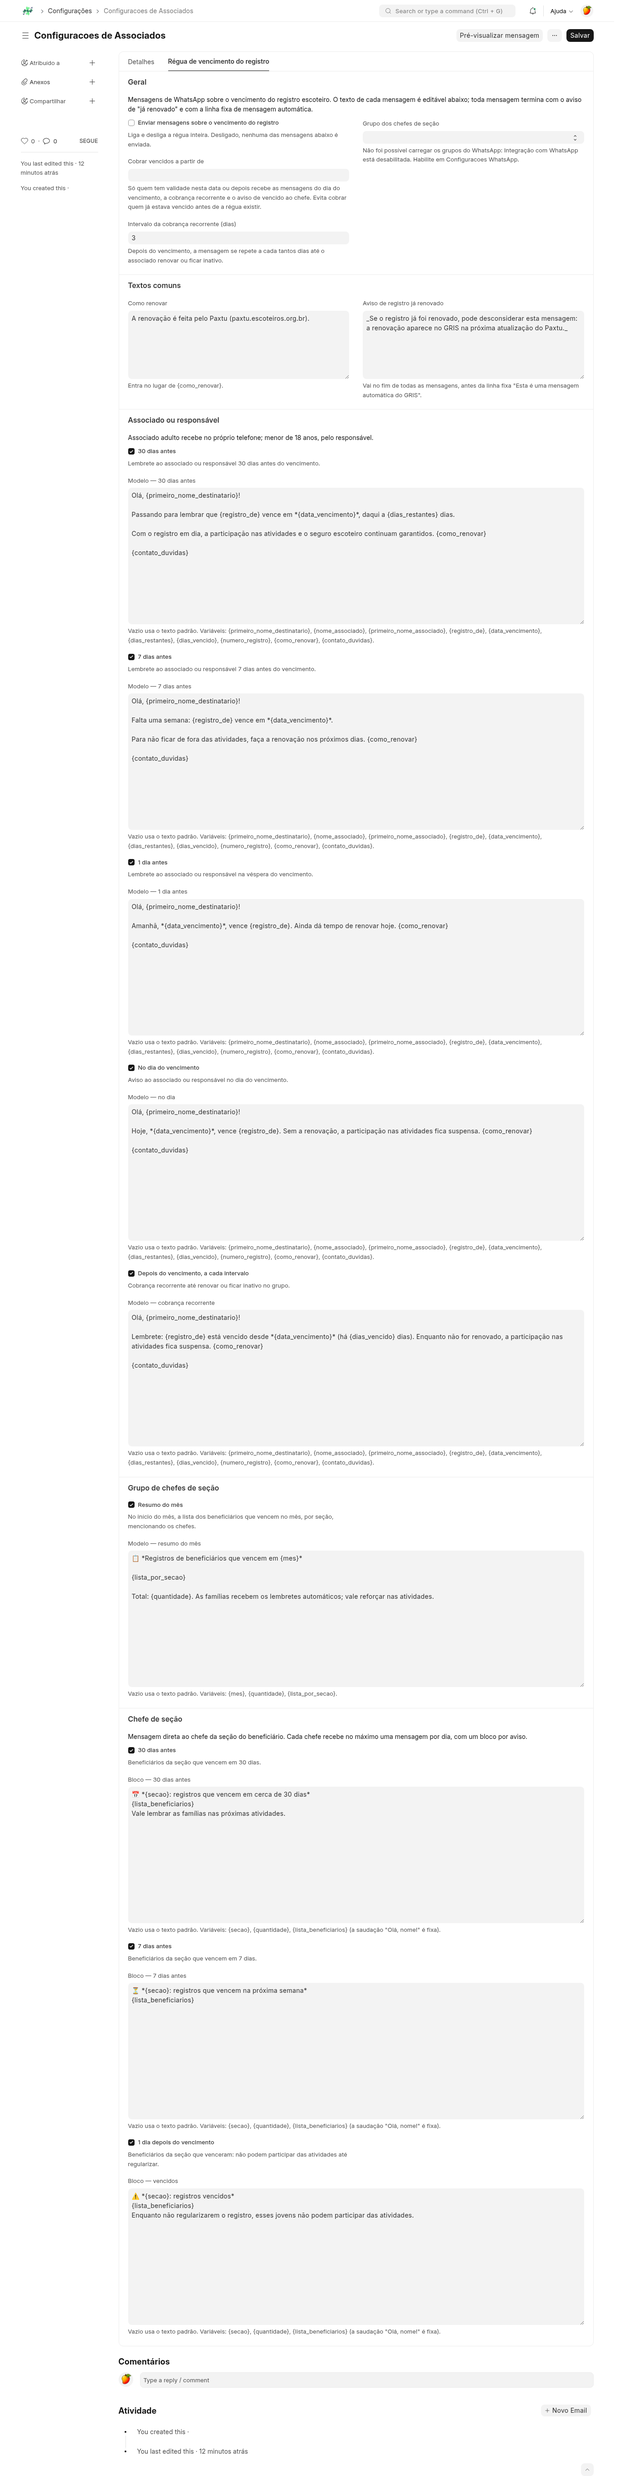
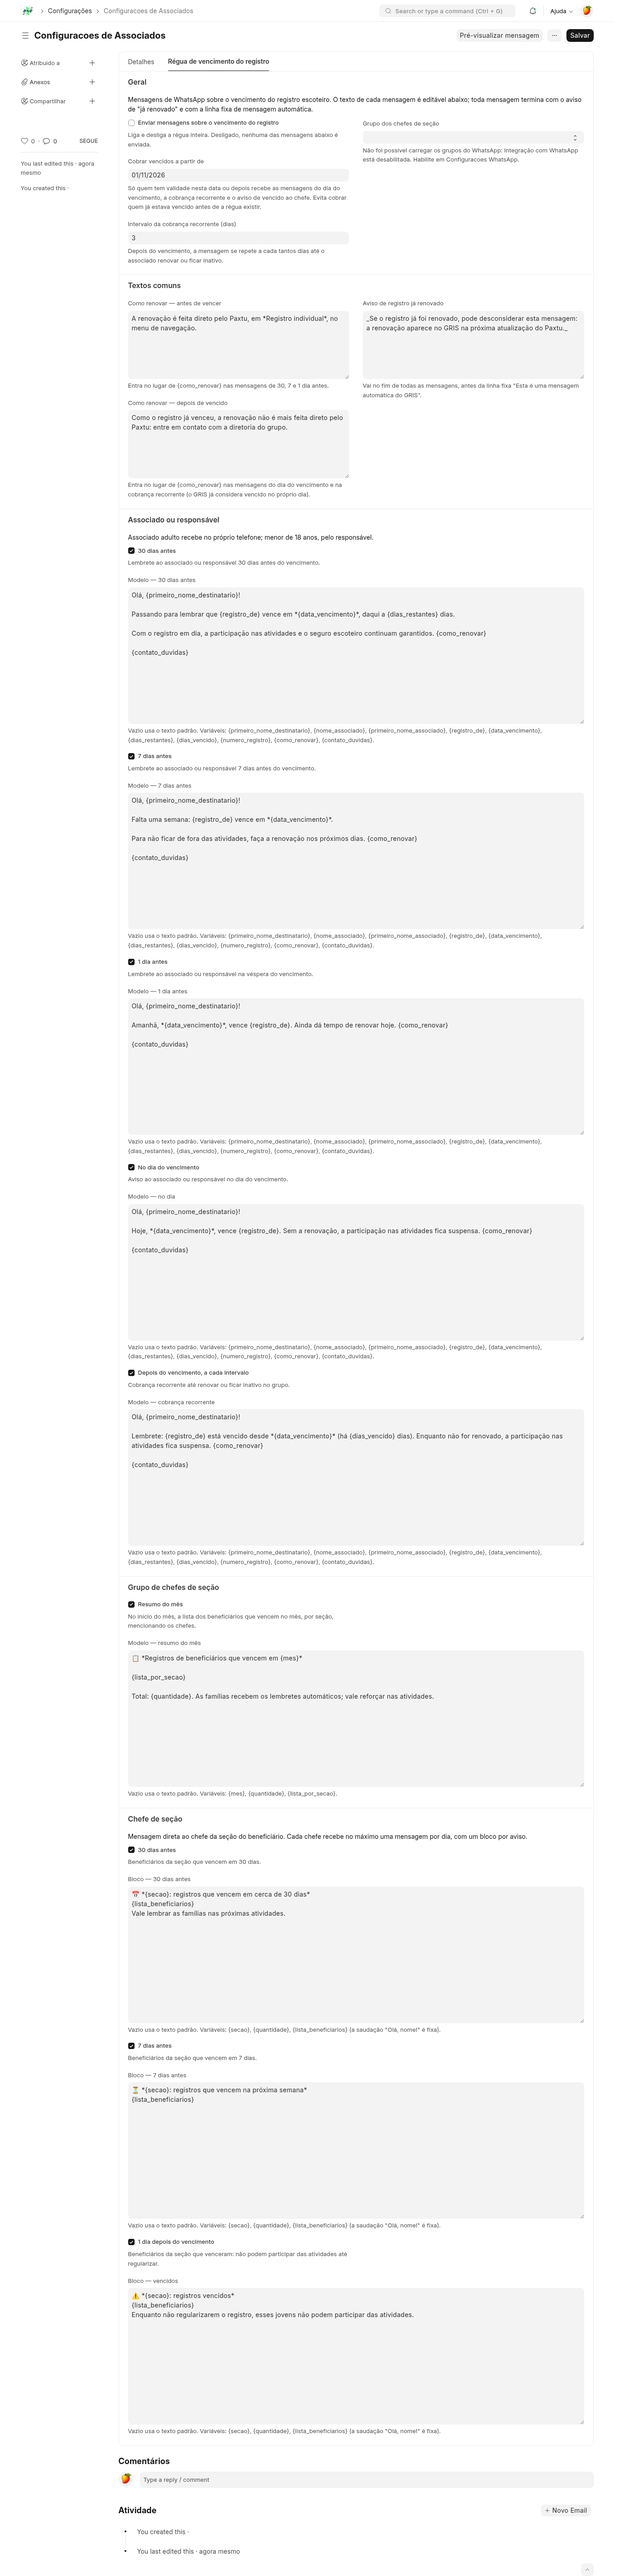
Régua de vencimento: corte em 01/11/2026 e como renovar por situação
- Patch grava a data de corte 01/11/2026 quando vazia (decisão do
  usuário); a data continua editável na tela.
- {como_renovar} passa a ter dois textos: antes de vencer, direto pelo
  Paxtu em Registro individual; no dia e depois de vencido, contato com
  a diretoria (mesma regra do status do registro).
- Patch roda de novo (idempotente) e troca o texto antigo se intocado.

diff --git a/gris/patches/preparar_regua_de_vencimento.py b/gris/patches/preparar_regua_de_vencimento.py
@@ -3,11 +3,19 @@ import frappe
 from gris.api.associados_vencimento_modelos import (
 	CAMPOS_DE_INTERRUPTOR,
 	INSTRUCOES_RENOVACAO_PADRAO,
+	INSTRUCOES_RENOVACAO_VENCIDO_PADRAO,
 	MODELOS_PADRAO,
 	SETTINGS_DOCTYPE,
 	TEXTO_JA_RENOVADO_PADRAO,
 	valor_bruto,
 )
+
+# Data de corte decidida com o usuário (20/11/2026): quem venceu a partir de 01/11/2026 entra na
+# cobrança recorrente e no aviso de vencido ao chefe. Só é gravada se o campo estiver vazio.
+CORTE_INICIAL = "2026-11-01"
+
+# Texto padrão da primeira versão do patch, trocado quando ninguém o editou.
+INSTRUCOES_RENOVACAO_ANTIGA = "A renovação é feita pelo Paxtu (paxtu.escoteiros.org.br)."
 
 
 def execute():
@@ -17,8 +25,8 @@ def execute():
 	abriria com os modelos em branco e os interruptores desmarcados, enquanto o código trata
 	ausência como "ligado" e "texto padrão": a tela diria uma coisa e o robô faria outra.
 
-	Só preenche o que falta. O interruptor geral e a data de corte não são tocados: a régua
-	nasce desligada e quem liga escolhe o corte.
+	Só preenche o que falta. A data de corte nasce em 01/11/2026 (decisão do usuário) e pode ser
+	trocada na tela; o interruptor geral não é tocado: a régua nasce desligada.
 	"""
 	if not frappe.db.exists("DocType", SETTINGS_DOCTYPE):
 		return
@@ -32,8 +40,13 @@ def execute():
 			valores[campo] = texto
 	if not (valor_bruto("texto_ja_renovado") or "").strip():
 		valores["texto_ja_renovado"] = TEXTO_JA_RENOVADO_PADRAO
-	if not (valor_bruto("instrucoes_renovacao") or "").strip():
+	instrucoes = (valor_bruto("instrucoes_renovacao") or "").strip()
+	if not instrucoes or instrucoes == INSTRUCOES_RENOVACAO_ANTIGA:
 		valores["instrucoes_renovacao"] = INSTRUCOES_RENOVACAO_PADRAO
+	if not (valor_bruto("instrucoes_renovacao_vencido") or "").strip():
+		valores["instrucoes_renovacao_vencido"] = INSTRUCOES_RENOVACAO_VENCIDO_PADRAO
+	if not valor_bruto("cobrar_vencidos_desde"):
+		valores["cobrar_vencidos_desde"] = CORTE_INICIAL
 	if valor_bruto("intervalo_recorrente_dias") is None:
 		valores["intervalo_recorrente_dias"] = 3
 

diff --git a/gris/api/associados_vencimento_notificacoes.py b/gris/api/associados_vencimento_notificacoes.py
@@ -382,6 +382,15 @@ def contato_duvidas() -> str:
 	)
 
 
+def _textos_comuns() -> dict[str, str]:
+	"""Lidos uma vez por rodada: valem para todas as mensagens ao associado."""
+	return {
+		"como_renovar": instrucoes_renovacao(),
+		"como_renovar_vencido": instrucoes_renovacao(vencido=True),
+		"contato_duvidas": contato_duvidas(),
+	}
+
+
 def valores_do_associado(associado, destinatario, *, dias: int, comum: dict) -> dict[str, object]:
 	nome_associado = (associado.get("nome_completo") or "").strip()
 	primeiro_nome_associado = _primeiro_nome(nome_associado)
@@ -400,7 +409,8 @@ def valores_do_associado(associado, destinatario, *, dias: int, comum: dict) -> 
 		"dias_restantes": max(dias, 0),
 		"dias_vencido": max(-dias, 0),
 		"numero_registro": (associado.get("registro") or "").strip(),
-		"como_renovar": comum.get("como_renovar", ""),
+		# Mesma regra do status do registro (``Associado._set_status``): no dia já conta como vencido.
+		"como_renovar": comum.get("como_renovar_vencido" if dias <= 0 else "como_renovar", ""),
 		"contato_duvidas": comum.get("contato_duvidas", ""),
 	}
 
@@ -624,7 +634,7 @@ def _avisar_associados(associados, estados, hoje, corte, intervalo, logger) -> d
 	nomes = [a.name for a, _marco, _dias in devidos]
 	links = _buscar_links_responsavel(nomes)
 	contatos = _buscar_contatos_responsavel(links)
-	comum = {"como_renovar": instrucoes_renovacao(), "contato_duvidas": contato_duvidas()}
+	comum = _textos_comuns()
 
 	for associado, marco, dias in devidos:
 		destinatario = resolver_destinatario(associado, links, contatos, hoje)
@@ -845,7 +855,7 @@ def notificar_vencimento_manual(associado_name: str) -> dict:
 		frappe.throw(_("Não foi possível encontrar um número de telefone elegível para o aviso."))
 
 	marco = marco_natural(dias)
-	comum = {"como_renovar": instrucoes_renovacao(), "contato_duvidas": contato_duvidas()}
+	comum = _textos_comuns()
 	enviar_texto(
 		destinatario.telefone,
 		mensagem_do_associado(marco, associado, destinatario, dias=dias, comum=comum),

diff --git a/gris/tests/test_associados_vencimento_notificacoes.py b/gris/tests/test_associados_vencimento_notificacoes.py
@@ -154,7 +154,14 @@ class _Ambiente:
 			)
 			pilha.enter_context(patch(f"{alvo}.contatos_chefes_dos_beneficiarios", side_effect=self._chefes))
 			pilha.enter_context(patch(f"{alvo}.contato_duvidas", return_value=""))
-			pilha.enter_context(patch(f"{alvo}.instrucoes_renovacao", return_value="Renove pelo Paxtu."))
+			pilha.enter_context(
+				patch(
+					f"{alvo}.instrucoes_renovacao",
+					side_effect=lambda vencido=False: (
+						"Fale com a diretoria." if vencido else "Renove pelo Paxtu."
+					),
+				)
+			)
 			pilha.enter_context(patch.object(modelos, "_valor_do_single", return_value=""))
 			return regua.executar_regua(hoje)
 
@@ -322,7 +329,7 @@ class TestDestinatario(FrappeTestCase):
 		self.assertEqual(regua._primeiro_nome(""), "")
 
 	def test_registro_de_conforme_destinatario(self):
-		comum = {"como_renovar": "", "contato_duvidas": ""}
+		comum = {"como_renovar": "", "como_renovar_vencido": "", "contato_duvidas": ""}
 		adulto = regua.valores_do_associado(
 			_associado(), frappe._dict(tipo=regua.DESTINATARIO_ASSOCIADO, nome="x"), dias=7, comum=comum
 		)
@@ -451,6 +458,18 @@ class TestReguaDoAssociado(FrappeTestCase):
 			mensagem = texto["mensagem"]
 			self.assertIn(modelos.TEXTO_JA_RENOVADO_PADRAO, mensagem)
 			self.assertTrue(mensagem.endswith(modelos.ASSINATURA_AUTOMATICA))
+
+	def test_como_renovar_muda_depois_de_vencido(self):
+		ambiente = _Ambiente([_associado(f"A{i}", dias=d) for i, d in enumerate((30, 7, 1, 0, -3), 1)])
+		ambiente.rodar()
+		por_numero = {t["numero"][-1]: t["mensagem"] for t in ambiente.textos}
+		for antes in ("1", "2", "3"):
+			self.assertIn("Renove pelo Paxtu.", por_numero[antes])
+			self.assertNotIn("diretoria", por_numero[antes])
+		# No dia já conta como vencido, como no status do registro.
+		for depois in ("4", "5"):
+			self.assertIn("Fale com a diretoria.", por_numero[depois])
+			self.assertNotIn("Paxtu.", por_numero[depois].split("_Se o registro")[0])
 
 	def test_resumo_do_job(self):
 		ambiente = _Ambiente([_associado(dias=30)])

diff --git a/gris/tests/test_associados_vencimento_modelos.py b/gris/tests/test_associados_vencimento_modelos.py
@@ -119,7 +119,39 @@ class TestModelos(FrappeTestCase):
 		for campo, texto in modelos.MODELOS_PADRAO.items():
 			self.assertEqual(gravado[campo], texto)
 		self.assertNotIn("regua_vencimento_ativa", gravado)
-		self.assertNotIn("cobrar_vencidos_desde", gravado)
+		self.assertEqual(gravado["cobrar_vencidos_desde"], "2026-11-01")
+		self.assertEqual(gravado["instrucoes_renovacao"], modelos.INSTRUCOES_RENOVACAO_PADRAO)
+		self.assertEqual(gravado["instrucoes_renovacao_vencido"], modelos.INSTRUCOES_RENOVACAO_VENCIDO_PADRAO)
+
+	def test_patch_troca_o_texto_antigo_de_como_renovar(self):
+		from gris.patches import preparar_regua_de_vencimento
+
+		existentes = {"instrucoes_renovacao": preparar_regua_de_vencimento.INSTRUCOES_RENOVACAO_ANTIGA}
+		gravado = {}
+		with (
+			patch.object(
+				preparar_regua_de_vencimento, "valor_bruto", side_effect=lambda c: existentes.get(c, "0")
+			),
+			patch.object(
+				preparar_regua_de_vencimento.frappe.db,
+				"set_single_value",
+				side_effect=lambda _d, valores: gravado.update(valores),
+			),
+			patch.object(preparar_regua_de_vencimento.frappe.db, "commit"),
+		):
+			preparar_regua_de_vencimento.execute()
+		self.assertEqual(gravado, {"instrucoes_renovacao": modelos.INSTRUCOES_RENOVACAO_PADRAO})
+
+	def test_como_renovar_padrao_por_situacao(self):
+		with patch.object(modelos, "_valor_do_single", return_value=""):
+			self.assertIn("Registro individual", modelos.instrucoes_renovacao())
+			self.assertIn("diretoria", modelos.instrucoes_renovacao(vencido=True))
+		with (
+			patch.object(modelos.frappe, "only_for"),
+			patch.object(modelos, "_valor_do_single", return_value=""),
+		):
+			self.assertIn("diretoria", modelos.pre_visualizar_modelo("modelo_venc_recorrente", ""))
+			self.assertIn("Registro individual", modelos.pre_visualizar_modelo("modelo_venc_7", ""))
 
 	def test_patch_nao_sobrescreve_o_que_existe(self):
 		from gris.patches import preparar_regua_de_vencimento

diff --git a/gris/api/associados_vencimento_modelos.py b/gris/api/associados_vencimento_modelos.py
@@ -32,7 +32,15 @@ TEXTO_JA_RENOVADO_PADRAO = (
 	"no GRIS na próxima atualização do Paxtu._"
 )
 
-INSTRUCOES_RENOVACAO_PADRAO = "A renovação é feita pelo Paxtu (paxtu.escoteiros.org.br)."
+# ``{como_renovar}`` muda com a situação do registro: antes de vencer a própria família renova
+# pelo Paxtu; depois de vencido o Paxtu não deixa mais, e é preciso falar com a diretoria.
+INSTRUCOES_RENOVACAO_PADRAO = (
+	"A renovação é feita direto pelo Paxtu, em *Registro individual*, no menu de navegação."
+)
+INSTRUCOES_RENOVACAO_VENCIDO_PADRAO = (
+	"Como o registro já venceu, a renovação não é mais feita direto pelo Paxtu: "
+	"entre em contato com a diretoria do grupo."
+)
 
 # Modelos para o associado (ou o responsável, quando menor) ───────────────────
 
@@ -271,7 +279,10 @@ def _texto_ja_renovado() -> str:
 	return _valor_do_single("texto_ja_renovado") or TEXTO_JA_RENOVADO_PADRAO
 
 
-def instrucoes_renovacao() -> str:
+def instrucoes_renovacao(vencido: bool = False) -> str:
+	"""Texto de ``{como_renovar}``: Paxtu antes de vencer, diretoria depois."""
+	if vencido:
+		return _valor_do_single("instrucoes_renovacao_vencido") or INSTRUCOES_RENOVACAO_VENCIDO_PADRAO
 	return _valor_do_single("instrucoes_renovacao") or INSTRUCOES_RENOVACAO_PADRAO
 
 
@@ -375,7 +386,7 @@ def pre_visualizar_modelo(campo: str, texto: str | None = None) -> str:
 			.replace("vence em 19/12/2026", "venceu em 19/11/2026")
 			.replace("vence em 20/12/2026", "venceu em 18/11/2026")
 		)
-	valores.setdefault("como_renovar", instrucoes_renovacao())
+	valores.setdefault("como_renovar", instrucoes_renovacao(vencido=campo in (MODELO_0, MODELO_RECORRENTE)))
 	corpo = substituir(texto, valores)
 	if VARIAVEIS_POR_MODELO[campo] is VARIAVEIS_DO_CHEFE:
 		corpo = f"Olá, {valores['primeiro_nome_chefe']}!\n\n{corpo}"

diff --git a/docs/specs/regua-vencimento-registro/plano.md b/docs/specs/regua-vencimento-registro/plano.md
@@ -42,7 +42,8 @@ Este diretório.
     - `cobrar_vencidos_desde` (Date)
     - `intervalo_recorrente_dias` (Int, padrão 3)
     - `grupo_chefes_whatsapp` (Select)
-    - `instrucoes_renovacao` (Small Text)
+    - `instrucoes_renovacao` e `instrucoes_renovacao_vencido` (Small Text): `{como_renovar}` antes
+      e depois de vencer
     - `texto_ja_renovado` (Small Text)
     - `resumo_mensal_enviado_em` (Data, read-only)
   - Três seções de mensagens, uma para cada público: "Associado ou responsável", "Grupo de chefes" e
@@ -54,9 +55,10 @@ Este diretório.
 - **`log_de_mensagem.json`**: Link `associado`; novas opções em `destinatario_tipo`: "Associado",
   "Responsável do associado" e "Chefe de seção".
 - **Patch** `gris.patches.preparar_regua_de_vencimento`:
-  - grava os textos padrão nos modelos vazios, em `texto_ja_renovado` e em `instrucoes_renovacao`;
-  - liga os 9 `msg_venc_*` e põe o intervalo em 3;
-  - não toca no geral nem no corte.
+  - grava os textos padrão nos modelos vazios, em `texto_ja_renovado` e nos dois textos de "como
+    renovar" (e troca o texto antigo de `instrucoes_renovacao` se ninguém o editou);
+  - liga os 9 `msg_venc_*`, põe o intervalo em 3 e o corte em 01/11/2026 se estiverem vazios;
+  - não toca no geral.
 
 ### 3.3 Modelos
 
@@ -114,9 +116,9 @@ Arquivo `gris/api/associados_vencimento_notificacoes.py`.
 ## 4. Implantação
 
 1. Merge e deploy. O patch prepara os textos, e a régua continua desligada.
-2. O administrativo confirma `instrucoes_renovacao` e revisa os textos usando a pré-visualização.
-3. Escolhem o grupo de chefes e a data de corte. Sugestão: o primeiro dia do mês da implantação, para
-   não disparar a mensagem recorrente para os 169 que já estavam vencidos.
+2. O administrativo revisa os textos usando a pré-visualização.
+3. Escolhem o grupo de chefes. O corte já vem em 01/11/2026, por decisão do usuário: a primeira
+   rodada cobra quem venceu desde então (no dev.gris, 76 pessoas do lote de 02/11).
 4. Ligam a régua. A primeira rodada das 9h já manda os marcos devidos e o resumo do mês.
 
 ## 5. Matriz de validação
@@ -135,6 +137,7 @@ Arquivo `gris/api/associados_vencimento_notificacoes.py`.
 | 03.2 | `TestMarcoDevido.test_validade_nova_recomeca` |
 | 03.3 | `TestMarcoDevido.test_corte`, `TestMarcoDoChefe.test_corte` |
 | 04.1–04.4 | `TestDestinatario` |
+| 04.5 | `TestReguaDoAssociado.test_como_renovar_muda_depois_de_vencido`, `TestModelos.test_como_renovar_padrao_por_situacao` |
 | 05.1 | `TestMarcoDoChefe` |
 | 05.2–05.6 | `TestAvisoAosChefes` |
 | 06.1–06.6 | `TestResumoMensal` |

diff --git a/docs/specs/regua-vencimento-registro/spec.md b/docs/specs/regua-vencimento-registro/spec.md
@@ -68,8 +68,11 @@ Além da tabela:
 - **Ativo:** `Associado.status_no_grupo = "Ativo"`.
 - **Menor:** quem ainda não fez 18 anos, contados pela `data_de_nascimento`. Beneficiário sem
   data de nascimento conta como menor; qualquer outra categoria sem a data conta como adulto.
-- **Corte:** `cobrar_vencidos_desde`. Validades anteriores a esta data não recebem nada a partir
-  do dia do vencimento.
+- **Corte:** `cobrar_vencidos_desde`, que vem preenchido com 01/11/2026 e pode ser alterado na
+  tela. Validades anteriores a esta data não recebem nada a partir do dia do vencimento.
+- **Como renovar:** antes de vencer, a própria família renova pelo Paxtu, em *Registro
+  individual*. Depois de vencido, inclusive no próprio dia, é preciso falar com a diretoria. Os dois
+  textos são editáveis.
 - **Validade de referência:** a validade a que os carimbos de envio se referem. Se a
   `validade_registro` mudar, a régua recomeça do zero.
 
@@ -85,8 +88,8 @@ Cada critério de aceite (CA) tem um teste correspondente na
 - **CA-01.2** Cada um dos nove `msg_venc_*` desmarcado suspende só o seu envio; os outros seguem
   saindo.
 - **CA-01.3** Um `msg_venc_*` que nunca foi gravado no `tabSingles` conta como ligado.
-- **CA-01.4** Num site novo, ou logo depois do patch, o interruptor geral fica desligado e os
-  nove individuais ficam ligados.
+- **CA-01.4** Num site novo, ou logo depois do patch, o interruptor geral fica desligado, os nove
+  individuais ficam ligados e a data de corte fica em 01/11/2026.
 - **CA-01.5** Salvar as configurações com o geral ligado e sem data de corte é recusado, com a
   mensagem pedindo a data.
 
@@ -129,6 +132,8 @@ Cada critério de aceite (CA) tem um teste correspondente na
   é carimbado.
 - **CA-04.4** Na mensagem, `{registro_de}` vira "seu registro escoteiro" quando quem recebe é o
   próprio associado, e "o registro escoteiro de Ana" quando é o responsável.
+- **CA-04.5** `{como_renovar}` usa `instrucoes_renovacao` quando d > 0 e
+  `instrucoes_renovacao_vencido` quando d ≤ 0.
 
 ### RF-05 — Aviso direto ao chefe de seção
 

diff --git a/docs/specs/regua-vencimento-registro/mensagens.md b/docs/specs/regua-vencimento-registro/mensagens.md
@@ -37,12 +37,13 @@ Seguido sempre da linha fixa:
 
 ### Instruções de renovação
 
-`instrucoes_renovacao` vira a variável `{como_renovar}`. Texto padrão, **a confirmar com o
-administrativo**:
+`{como_renovar}` muda conforme a situação do registro. A regra é a mesma do status do registro no
+GRIS: no próprio dia do vencimento o registro já conta como vencido.
 
-```
-A renovação é feita pelo Paxtu (paxtu.escoteiros.org.br).
-```
+| Quando | Campo | Texto padrão |
+|---|---|---|
+| Antes de vencer (30, 7 e 1 dia antes) | `instrucoes_renovacao` | A renovação é feita direto pelo Paxtu, em *Registro individual*, no menu de navegação. |
+| No dia e depois de vencido | `instrucoes_renovacao_vencido` | Como o registro já venceu, a renovação não é mais feita direto pelo Paxtu: entre em contato com a diretoria do grupo. |
 
 ## 1. Associado ou responsável
 
@@ -58,7 +59,7 @@ A renovação é feita pelo Paxtu (paxtu.escoteiros.org.br).
 | `{dias_restantes}` | 30 | 30 |
 | `{dias_vencido}` | 0 | 0 |
 | `{numero_registro}` | 1234567-8 | 1234567-8 |
-| `{como_renovar}` | (instruções de renovação) | (idem) |
+| `{como_renovar}` | (instruções de renovação, conforme a situação do registro) | (idem) |
 | `{contato_duvidas}` | Dúvidas sobre a renovação? Fale com a Joana, do administrativo, pelo telefone +55 11 91234-5678. | (idem) |
 
 `{contato_duvidas}` usa o responsável administrativo de Configurações de Recepção. Sem ele, ou sem
@@ -125,7 +126,7 @@ Olá, Mariana!
 
 Falta uma semana: o registro escoteiro de Ana vence em *09/11/2027*.
 
-Para não ficar de fora das atividades, faça a renovação nos próximos dias. A renovação é feita pelo Paxtu (paxtu.escoteiros.org.br).
+Para não ficar de fora das atividades, faça a renovação nos próximos dias. A renovação é feita direto pelo Paxtu, em *Registro individual*, no menu de navegação.
 
 Dúvidas sobre a renovação? Fale com a Joana, do administrativo, pelo telefone +55 11 91234-5678.
 

diff --git a/docs/evidencias/regua-vencimento-registro/README.md b/docs/evidencias/regua-vencimento-registro/README.md
@@ -27,5 +27,5 @@ agregados; nenhum nome é reproduzido aqui.
 A rodada encontrou um problema, já corrigido: um nome cadastrado com tratamento ("Dr. Fulano") gerava a
 saudação "Olá, Dr.!". `_primeiro_nome` agora pula Dr., Dra., Sr., Sra., Srta., Prof. e Profa.
 
-**Para a implantação:** com o corte em 01/11, a primeira rodada manda 76 cobranças recorrentes de uma
-vez. Se a ideia é começar só com os próximos vencimentos, use a data da implantação como corte.
+**Para a implantação:** o corte vem preenchido com 01/11/2026, por decisão do usuário. A primeira rodada
+já manda as 76 cobranças recorrentes do lote que venceu em 02/11.
